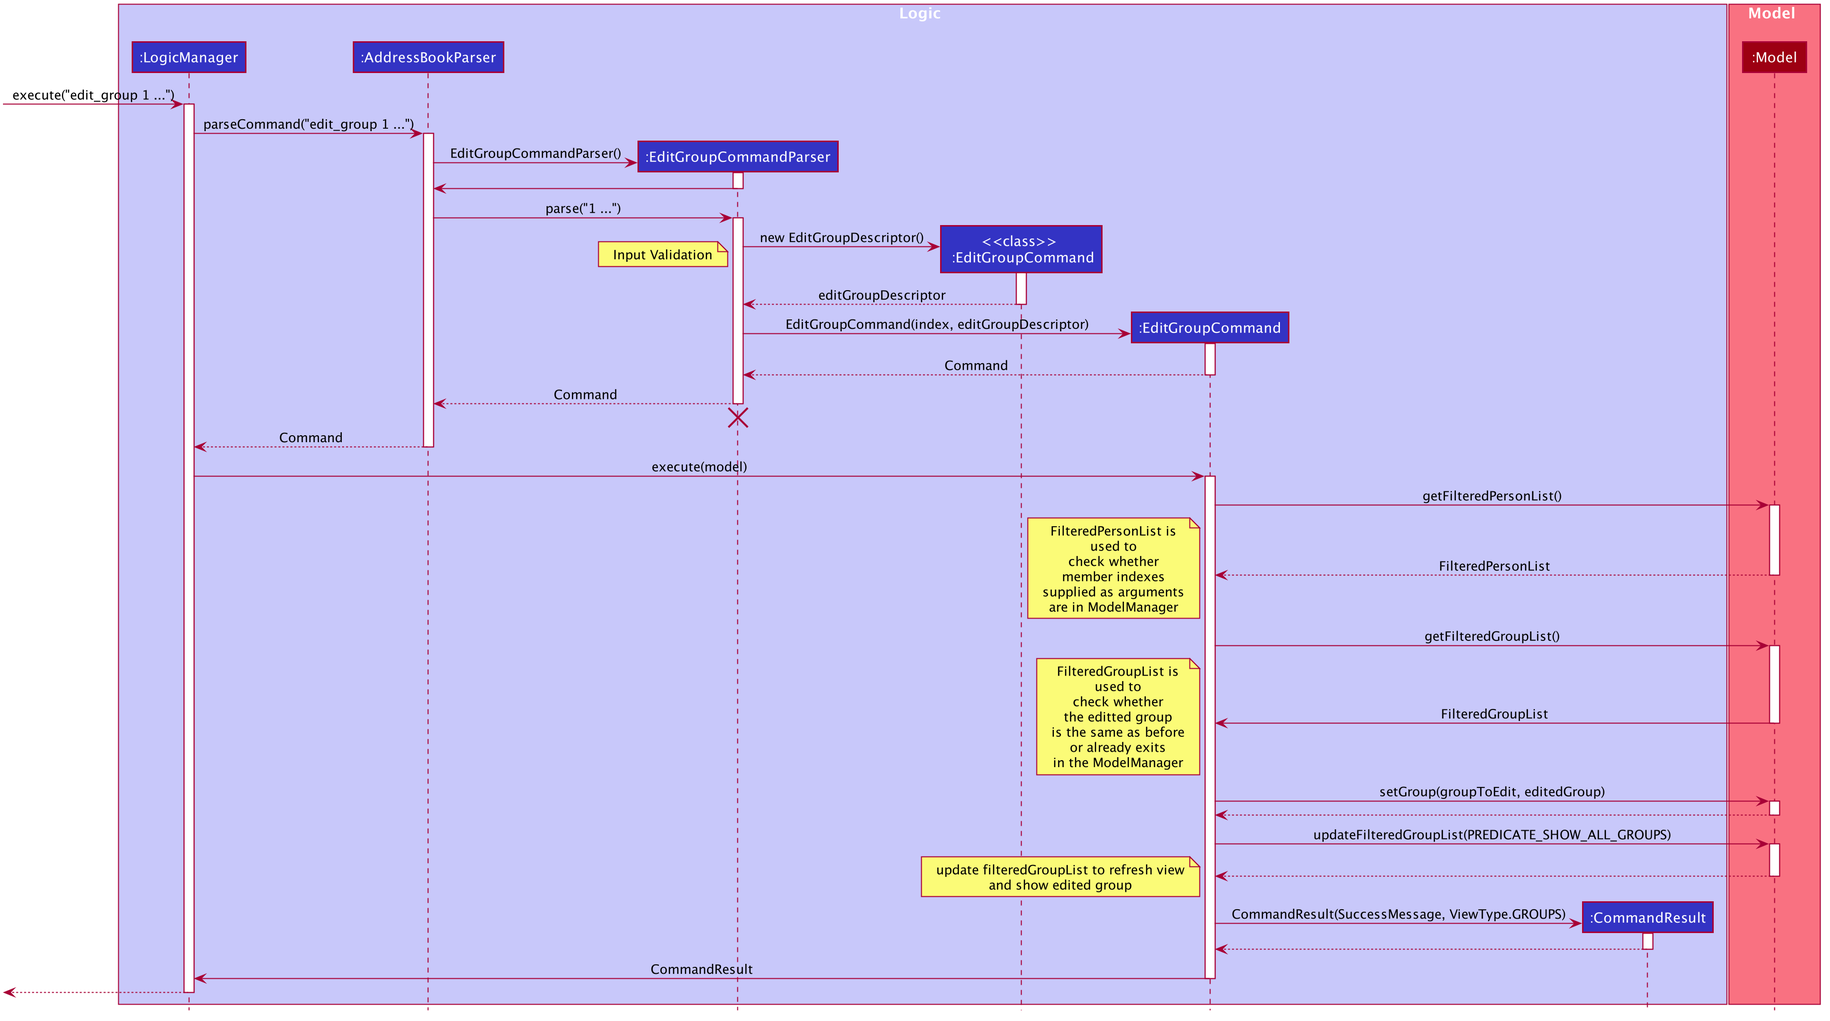
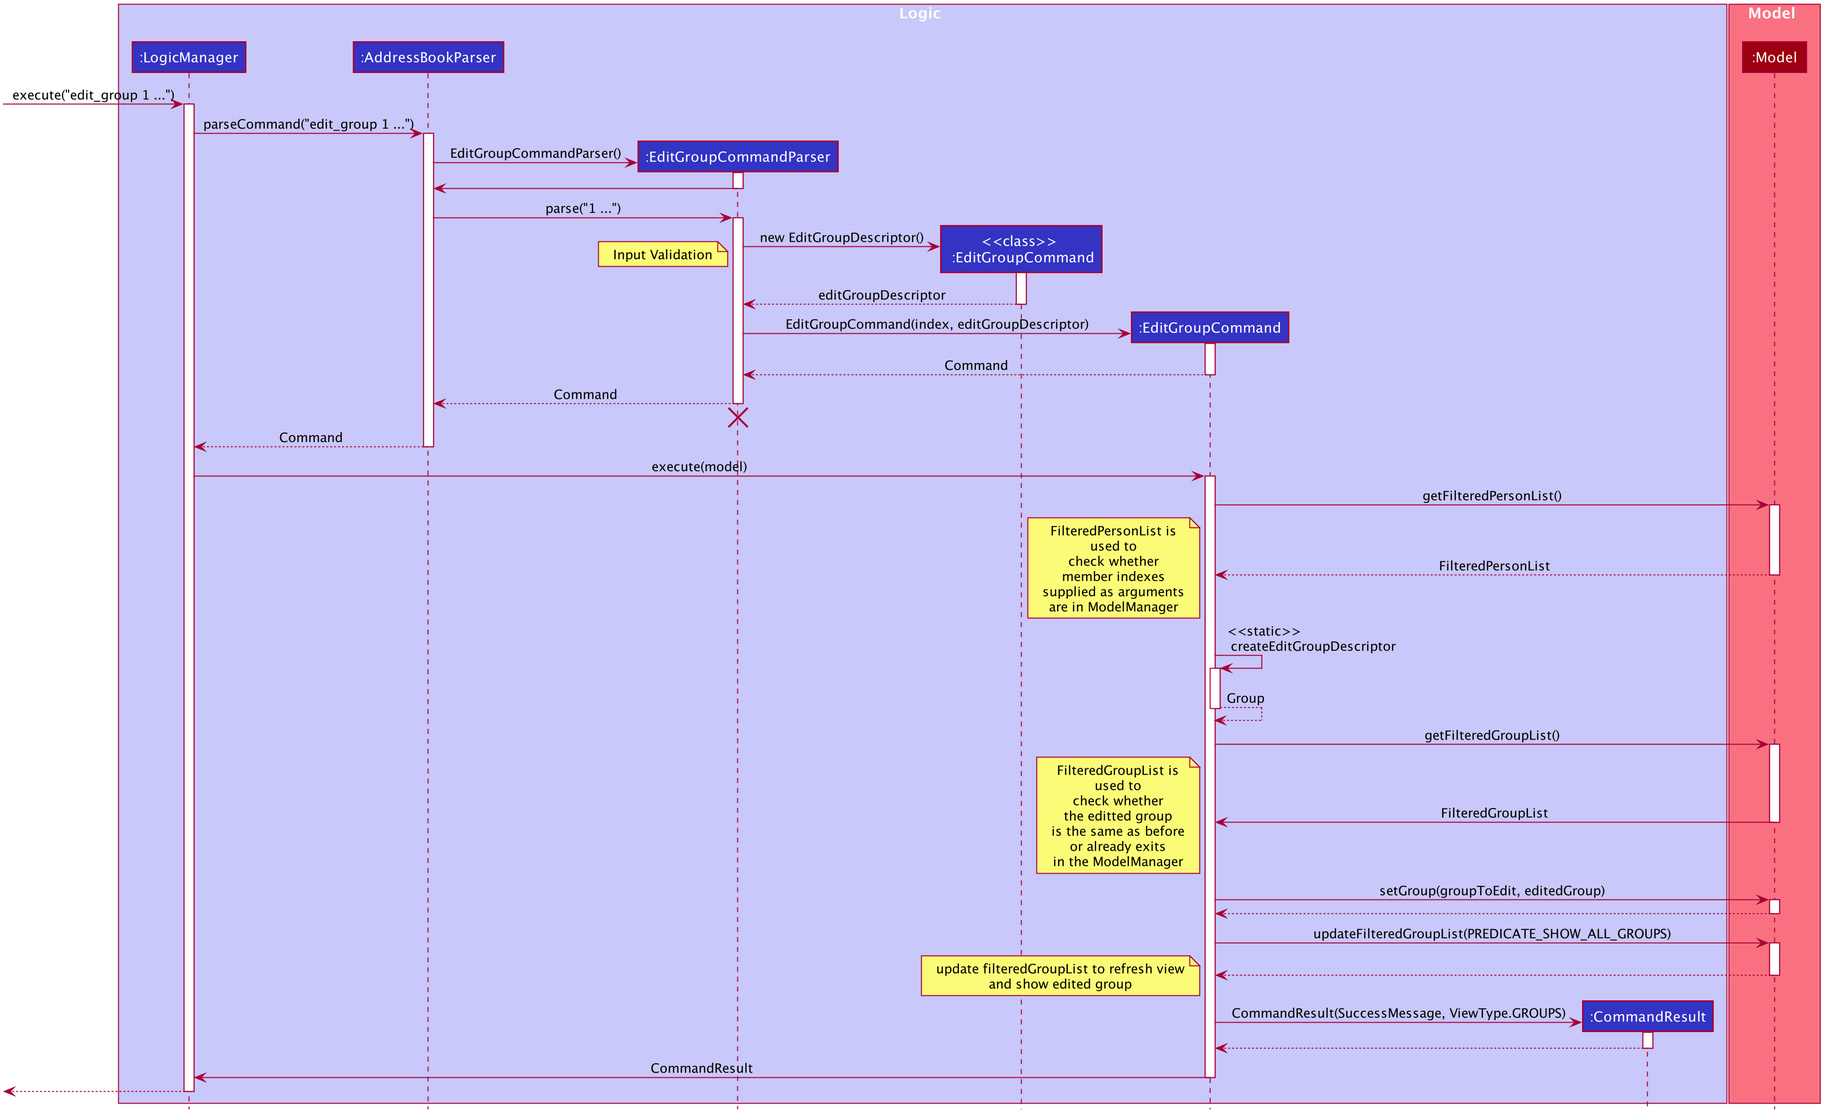
Rebuild pages at 583d0dda7e2013efb6cb3e8d5bdd41a7f2e36292

diff --git a/DeveloperGuide.html b/DeveloperGuide.html
@@ -59,10 +59,11 @@
 <ul class="sectlevel2">
 <li><a href="#build-automation">7.1. Build Automation</a></li>
 <li><a href="#continuous-integration">7.2. Continuous Integration</a></li>
-<li><a href="#coverage-reporting">7.3. Coverage Reporting</a></li>
-<li><a href="#documentation-previews">7.4. Documentation Previews</a></li>
-<li><a href="#making-a-release">7.5. Making a Release</a></li>
-<li><a href="#managing-dependencies">7.6. Managing Dependencies</a></li>
+<li><a href="#continuous-deployment">7.3. Continuous Deployment</a></li>
+<li><a href="#coverage-reporting">7.4. Coverage Reporting</a></li>
+<li><a href="#documentation-previews">7.5. Documentation Previews</a></li>
+<li><a href="#making-a-release">7.6. Making a Release</a></li>
+<li><a href="#managing-dependencies">7.7. Managing Dependencies</a></li>
 </ul>
 </li>
 <li><a href="#product-scope">Appendix A: Product Scope</a></li>
@@ -875,7 +876,7 @@ feature is shown using the following Sequence Diagram.</p>
 <div class="ulist">
 <ul>
 <li>
-<p>Alternative 1: Separate <code>DeleteGroupCommand</code> and <code>DeleteGroup</code> classes to support the feature.<br>
+<p>Alternative 1 (current choice) : Separate <code>DeleteGroupCommand</code> and <code>DeleteGroup</code> classes to support the feature.<br>
 Pros: clear class responsibility, easier to trace bugs. Since this follows the design of most other commands,
 intuitive to understand for new developers<br>
 Cons: increases the amount of code, which might introduce more errors.</p>
@@ -891,10 +892,13 @@ Cons: Can cause confusion among developers regarding the class responsibility.</
 </div>
 <div class="sect2">
 <h3 id="list-group-feature"><a class="link" href="#list-group-feature">4.6. List Group Feature</a></h3>
+<div class="paragraph">
+<p>The list group feature allows users to view all the <code>Group</code> instances currently stored in CoderLifeInsights.</p>
+</div>
 <div class="sect3">
 <h4 id="implementation-7"><a class="link" href="#implementation-7">4.6.1. Implementation</a></h4>
 <div class="paragraph">
-<p>The list feature allows users to view all the social <code>Group</code> instances currently stored in CoderLifeInsights.</p>
+<p>This feature is mainly supported by the <code>ListGroupCommand</code>, which extends the abstract class <code>Command</code>.</p>
 </div>
 <div class="paragraph">
 <p>Here below is a sequence diagram showcasing how the command works.</p>
@@ -905,7 +909,7 @@ Cons: Can cause confusion among developers regarding the class responsibility.</
 </div>
 </div>
 <div class="paragraph">
-<p>The following activity diagram depicts the step-by-step scenario when a user executes the <code>list_groups</code> command:</p>
+<p>The following is an example usage scenario and how the list group mechanism behaves at each step.</p>
 </div>
 <div class="olist arabic">
 <ol class="arabic">
@@ -913,10 +917,10 @@ Cons: Can cause confusion among developers regarding the class responsibility.</
 <p>User enters <code>list_groups</code> into the command prompt</p>
 </li>
 <li>
-<p>The <code>LogicManager</code> calls <code>AddressBookParser#parseCommand()</code></p>
+<p>The <code>LogicManager</code> calls <code>AddressBookParser#parseCommand()</code> with the arguments supplied by the user</p>
 </li>
 <li>
-<p>The method <code>AddressBookParser#parseCommand()</code> creates a <code>ListGroupCommand</code> and checks if the input is valid.</p>
+<p>The method <code>AddressBookParser#parseCommand()</code> checks if the input is valid and if yes, creates a <code>ListGroupCommand</code>.</p>
 </li>
 <li>
 <p>The <code>ListGroupCommand</code> calls the <code>updateFilteredGroupList</code> method of <code>Model</code> to update the GUI.</p>
@@ -929,6 +933,9 @@ Cons: Can cause confusion among developers regarding the class responsibility.</
 </li>
 </ol>
 </div>
+<div class="paragraph">
+<p>The following activity diagram summarises the workflow for the list group feature.</p>
+</div>
 <div id="ListGroupCommandActivity" class="imageblock" style="text-align: center">
 <div class="content">
 <img src="images/ListGroupCommandActivity.png" alt="ListGroupCommandActivity" width="50%">
@@ -938,12 +945,155 @@ Cons: Can cause confusion among developers regarding the class responsibility.</
 </div>
 <div class="sect2">
 <h3 id="edit-group-feature"><a class="link" href="#edit-group-feature">4.7. Edit Group Feature</a></h3>
+<div class="paragraph">
+<p>The Edit Group Feature allows the user to edit an existing <code>Group</code> in the app.</p>
+</div>
 <div class="sect3">
 <h4 id="implementation-8"><a class="link" href="#implementation-8">4.7.1. Implementation</a></h4>
+<div class="paragraph">
+<p>The Edit Group Feature is facilitated by the <code>EditGroupCommand</code>, which extends the abstract class <code>Command</code>, and
+the <code>EditGroupCommandParser</code>, which implements the <code>Parser</code> interface. Both of these classes are part of the <code>Logic</code>
+package. Additionally, a private and static <code>EditGroupDescriptor</code> class is present in <code>EditGroupCommand</code> as a container
+class to encapsulate attributes to be edited for a <code>Group</code>.</p>
+</div>
+<div class="paragraph">
+<p>he following operations are implemented and used for accomplishing this feature:</p>
+</div>
+<div class="ulist">
+<ul>
+<li>
+<p><code>EditGroupCommandParser#parser(String args)</code> - Parses the input to obtain the arguments and returns an
+<code>EditGroupCommand</code> instance with the arguments.</p>
+</li>
+<li>
+<p><code>EditGroupCommandParser#arePrefixesPresent(ArgumentMultimap argumentMultiMap, Prefix&#8230;&#8203; prefixes)</code> - checks if the
+member indexes are supplied by the user.</p>
+</li>
+<li>
+<p><code>EditGroupCommand#EditGroupCommand(Index index, EditGroupDescriptor editGroupDescriptor)</code> - Creates a new
+<code>EditGroupCommand</code> instance with the supplied index and editGroupDescriptor.</p>
+</li>
+<li>
+<p><code>EditGroupCommand#createEditedGroup(Group groupToEdit, EditGroupDescriptor editGroupDescriptor)</code> - Modifies the given
+<code>groupToEdit</code> with the details given in <code>editGroupDescriptor</code>.</p>
+</li>
+</ul>
+</div>
+<div class="paragraph">
+<p>The following is an example usage scenario and how the edit group mechanism behaves at each step:</p>
+</div>
+<div class="olist arabic">
+<ol class="arabic">
+<li>
+<p>User types <code>edit_group index n/new_name</code> or <code>edit_group index m/index &#8230;&#8203;</code> into the app.</p>
+</li>
+<li>
+<p>The request is handled by <code>LogicManager#execute(String)</code>, which then calls and passes the input to
+the <code>AddressBookParser#parseCommand(String)</code> method.</p>
+</li>
+<li>
+<p><code>AddressBookParser</code> detects the command word <code>edit_group</code> in the input string and creates a new
+<code>EditGroupCommandParser</code> to parse inputs according to the format specified for <code>EditGroupCommand</code>.</p>
+</li>
+<li>
+<p>Input is parsed using the <code>EditGroupCommandParser#parse(String)</code> method, which also performs input validation. The
+method creates a <code>EditGroupDescriptor</code> using the parsed inputs by calling the static constructor inside <code>EditGroupCommand</code>.</p>
+</li>
+<li>
+<p>The <code>EditGroupCommandParser</code> creates a new <code>EditGroupCommand</code> instance with the given <code>index</code> and newly created
+<code>EditGroupDescriptor</code> object and returns it to <code>AddressBookParser</code>, which in turn returns it to <code>LogicManager</code>.</p>
+</li>
+<li>
+<p><code>LogicManager</code> calls the <code>EditGroupCommand#execute(model)</code> method.</p>
+</li>
+<li>
+<p><code>EditGroupCommand</code> obtains a copy of the <code>FilteredPersonList</code> by calling the <code>Model#getFilteredPersonList()</code> method.
+This is used to check if the member indexes supplied by the user exist in the app and that there are no duplicate person
+indexes in the command.</p>
+</li>
+<li>
+<p><code>EditGroupCommand</code> edits the group at given index by calling its own private static method
+<code>EditGroupCommand#createEditGroup(Group, EditGroupDescriptor)</code>.</p>
+</li>
+<li>
+<p><code>EditGroupCommand</code> obtains a copy of the <code>FilteredGroupList</code> by calling the <code>Model#getFilteredGroupList()</code> method.
+This is used to check if the edited group already exits in the app.</p>
+</li>
+<li>
+<p>As a last step, <code>EditGroupCommand</code> creates a <code>CommandResult</code> with <code>SuccessMessage</code> and <code>ViewType</code> and returns it to
+<code>LogicManager</code>.</p>
+</li>
+</ol>
+</div>
+<div class="paragraph">
+<p>The above process is shown in the following sequence diagram:</p>
+</div>
 <div id="EditGroupSequenceDiagram" class="imageblock" style="text-align: center">
 <div class="content">
 <img src="images/EditGroupSequenceDiagram.png" alt="EditGroupSequenceDiagram">
 </div>
+</div>
+<div class="paragraph">
+<p>The following activity diagram summarises the general workflow for the Edit Group Feature</p>
+</div>
+<div id="EditGroupActivityDiagram" class="imageblock" style="text-align: center">
+<div class="content">
+<img src="images/EditGroupActivityDiagram.png" alt="EditGroupActivityDiagram">
+</div>
+</div>
+</div>
+<div class="sect3">
+<h4 id="design-considerations-4"><a class="link" href="#design-considerations-4">4.7.2. Design Considerations</a></h4>
+<div class="paragraph">
+<p>Aspect: What and how to edit</p>
+</div>
+<div class="ulist">
+<ul>
+<li>
+<p>Alternative 1 (current choice): Only edit parameters that are supplied. For the parameters that are supplied,
+overwrite the existing entry.</p>
+<div class="ulist">
+<ul>
+<li>
+<p>Pros: The single edit group feature can achieve both addition and deletion of members
+as well as renaming of the group. Better maintainability of code.</p>
+</li>
+<li>
+<p>Cons: Overwriting all existing entries might affect usability as the user will have to re-enter the current member
+indexes if they want to add to member indexes rather than delete.</p>
+</li>
+</ul>
+</div>
+</li>
+<li>
+<p>Alternative 2: Only edit parameters that are supplied. For the parameters that are supplied, add to the existing
+entries instead of overwriting.</p>
+<div class="ulist">
+<ul>
+<li>
+<p>Pros: The user will not have to re-enter member indexes if they choose to retain members inside a group.</p>
+</li>
+<li>
+<p>Cons: Will require implementing a separate command to then delete member indexes from a group. This can also confuse
+the user if there are too many commands.</p>
+</li>
+</ul>
+</div>
+</li>
+<li>
+<p>Alternative 3: Edit all parameters. Overwrite all existing entries.</p>
+<div class="ulist">
+<ul>
+<li>
+<p>Pros: Simplest to implement in terms of code. Will require less code than alternative 1 and 2.</p>
+</li>
+<li>
+<p>Cons: Cumbersome for the user as they have to enter an attribute value even if they don&#8217;t want to change it.</p>
+</li>
+</ul>
+</div>
+</li>
+</ul>
 </div>
 </div>
 </div>
@@ -1269,7 +1419,7 @@ This is the behavior that most modern desktop applications follow.</p>
 </div>
 </div>
 <div class="sect3">
-<h4 id="design-considerations-4"><a class="link" href="#design-considerations-4">4.10.2. Design Considerations</a></h4>
+<h4 id="design-considerations-5"><a class="link" href="#design-considerations-5">4.10.2. Design Considerations</a></h4>
 <div class="sect4">
 <h5 id="aspect-how-undo-redo-executes"><a class="link" href="#aspect-how-undo-redo-executes">Aspect: How undo &amp; redo executes</a></h5>
 <div class="ulist">
@@ -1719,21 +1869,29 @@ for more details.</p>
 </div>
 </div>
 <div class="sect2">
-<h3 id="coverage-reporting"><a class="link" href="#coverage-reporting">7.3. Coverage Reporting</a></h3>
+<h3 id="continuous-deployment"><a class="link" href="#continuous-deployment">7.3. Continuous Deployment</a></h3>
+<div class="paragraph">
+<p>We maintain a site for this project <a href="https://ay1920s2-cs2103-w14-4.github.io/main/">here</a>. To ensure that each PR complies
+with our site requirements for auto-deploy, we use Netlify for Continuous Deployment. Read
+<a href="https://docs.netlify.com/configure-builds/get-started/#basic-build-settings">this guide</a> to get upto speed with Netlify CD.</p>
+</div>
+</div>
+<div class="sect2">
+<h3 id="coverage-reporting"><a class="link" href="#coverage-reporting">7.4. Coverage Reporting</a></h3>
 <div class="paragraph">
 <p>We use <a href="https://coveralls.io/">Coveralls</a> to track the code coverage of our projects.
 See <a href="UsingCoveralls.html">UsingCoveralls.adoc</a> for more details.</p>
 </div>
 </div>
 <div class="sect2">
-<h3 id="documentation-previews"><a class="link" href="#documentation-previews">7.4. Documentation Previews</a></h3>
+<h3 id="documentation-previews"><a class="link" href="#documentation-previews">7.5. Documentation Previews</a></h3>
 <div class="paragraph">
 <p>When a pull request has changes to asciidoc files, you can use <a href="https://www.netlify.com/">Netlify</a> to see a preview of how the HTML version of those asciidoc files will look like when the pull request is merged.
 See <a href="UsingNetlify.html">UsingNetlify.adoc</a> for more details.</p>
 </div>
 </div>
 <div class="sect2">
-<h3 id="making-a-release"><a class="link" href="#making-a-release">7.5. Making a Release</a></h3>
+<h3 id="making-a-release"><a class="link" href="#making-a-release">7.6. Making a Release</a></h3>
 <div class="paragraph">
 <p>Here are the steps to create a new release.</p>
 </div>
@@ -1755,7 +1913,7 @@ See <a href="UsingNetlify.html">UsingNetlify.adoc</a> for more details.</p>
 </div>
 </div>
 <div class="sect2">
-<h3 id="managing-dependencies"><a class="link" href="#managing-dependencies">7.6. Managing Dependencies</a></h3>
+<h3 id="managing-dependencies"><a class="link" href="#managing-dependencies">7.7. Managing Dependencies</a></h3>
 <div class="paragraph">
 <p>A project often depends on third-party libraries.
 For example, Address Book depends on the <a href="https://github.com/FasterXML/jackson">Jackson library</a> for JSON parsing.
@@ -3087,4 +3245,4 @@ A success message will be shown to the user.</p>
 </div>
 </div>
 </div>
-</div></div><div id="footer"><div class="container"><div id="footer-text">Last updated 2020-04-13 01:04:00 UTC</div></div></div></body></html>
+</div></div><div id="footer"><div class="container"><div id="footer-text">Last updated 2020-04-13 02:54:10 UTC</div></div></div></body></html>

diff --git a/team/raivatshah.html b/team/raivatshah.html
@@ -480,10 +480,13 @@ Format: <code>view [INDEX] INSIGHT_PARAMETER</code></p>
 </table>
 <div class="sect2">
 <h3 id="list-group-feature"><a class="link" href="#list-group-feature">List Group Feature</a></h3>
+<div class="paragraph">
+<p>The list group feature allows users to view all the <code>Group</code> instances currently stored in CoderLifeInsights.</p>
+</div>
 <div class="sect3">
 <h4 id="implementation"><a class="link" href="#implementation">Implementation</a></h4>
 <div class="paragraph">
-<p>The list feature allows users to view all the social <code>Group</code> instances currently stored in CoderLifeInsights.</p>
+<p>This feature is mainly supported by the <code>ListGroupCommand</code>, which extends the abstract class <code>Command</code>.</p>
 </div>
 <div class="paragraph">
 <p>Here below is a sequence diagram showcasing how the command works.</p>
@@ -494,7 +497,7 @@ Format: <code>view [INDEX] INSIGHT_PARAMETER</code></p>
 </div>
 </div>
 <div class="paragraph">
-<p>The following activity diagram depicts the step-by-step scenario when a user executes the <code>list_groups</code> command:</p>
+<p>The following is an example usage scenario and how the list group mechanism behaves at each step.</p>
 </div>
 <div class="olist arabic">
 <ol class="arabic">
@@ -502,10 +505,10 @@ Format: <code>view [INDEX] INSIGHT_PARAMETER</code></p>
 <p>User enters <code>list_groups</code> into the command prompt</p>
 </li>
 <li>
-<p>The <code>LogicManager</code> calls <code>AddressBookParser#parseCommand()</code></p>
+<p>The <code>LogicManager</code> calls <code>AddressBookParser#parseCommand()</code> with the arguments supplied by the user</p>
 </li>
 <li>
-<p>The method <code>AddressBookParser#parseCommand()</code> creates a <code>ListGroupCommand</code> and checks if the input is valid.</p>
+<p>The method <code>AddressBookParser#parseCommand()</code> checks if the input is valid and if yes, creates a <code>ListGroupCommand</code>.</p>
 </li>
 <li>
 <p>The <code>ListGroupCommand</code> calls the <code>updateFilteredGroupList</code> method of <code>Model</code> to update the GUI.</p>
@@ -518,6 +521,9 @@ Format: <code>view [INDEX] INSIGHT_PARAMETER</code></p>
 </li>
 </ol>
 </div>
+<div class="paragraph">
+<p>The following activity diagram summarises the workflow for the list group feature.</p>
+</div>
 <div id="ListGroupCommandActivity" class="imageblock" style="text-align: center">
 <div class="content">
 <img src="../images/ListGroupCommandActivity.png" alt="ListGroupCommandActivity" width="50%">
@@ -526,4 +532,4 @@ Format: <code>view [INDEX] INSIGHT_PARAMETER</code></p>
 </div>
 </div>
 </div>
-</div></div><div id="footer"><div class="container"><div id="footer-text">Last updated 2020-04-13 01:04:00 UTC</div></div></div></body></html>
+</div></div><div id="footer"><div class="container"><div id="footer-text">Last updated 2020-04-13 02:54:10 UTC</div></div></div></body></html>

diff --git a/tutorials/RemovingFields.html b/tutorials/RemovingFields.html
@@ -175,4 +175,4 @@ While keeping the <code>address</code> field in the json files does not cause th
 <p>You can go through each individual <code>json</code> file and manually remove the <code>address</code> field.</p>
 </div>
 </div>
-</div></div><div id="footer"><div class="container"><div id="footer-text">Last updated 2020-04-13 01:04:00 UTC</div></div></div></body></html>
+</div></div><div id="footer"><div class="container"><div id="footer-text">Last updated 2020-04-13 02:54:10 UTC</div></div></div></body></html>

diff --git a/Testing.html b/Testing.html
@@ -90,4 +90,4 @@ e.g. <code>seedu.address.logic.LogicManagerTest</code></p>
 <div class="title">Figure 1. <code>Accessibility</code> permission is granted to <code>IntelliJ IDEA</code></div>
 </div>
 </div>
-</div></div><div id="footer"><div class="container"><div id="footer-text">Last updated 2020-04-13 01:04:00 UTC</div></div></div></body></html>
+</div></div><div id="footer"><div class="container"><div id="footer-text">Last updated 2020-04-13 02:54:10 UTC</div></div></div></body></html>

diff --git a/tutorials/AddRemark.html b/tutorials/AddRemark.html
@@ -616,4 +616,4 @@ In this case, <code>CommandTestUtil#assertCommandSuccess</code> is the best fit 
 <p>This concludes the tutorial for adding a new <code>Command</code> to AddressBook.</p>
 </div>
 </div>
-</div></div><div id="footer"><div class="container"><div id="footer-text">Last updated 2020-04-13 01:04:00 UTC</div></div></div></body></html>
+</div></div><div id="footer"><div class="container"><div id="footer-text">Last updated 2020-04-13 02:54:10 UTC</div></div></div></body></html>

diff --git a/team/johndoe.html b/team/johndoe.html
@@ -465,4 +465,4 @@ Violates Single Responsibility Principle and Separation of Concerns as <code>His
 <p><em>{Optionally, you may include other projects in your portfolio.}</em></p>
 </div>
 </div>
-</div></div><div id="footer"><div class="container"><div id="footer-text">Last updated 2020-04-13 01:04:00 UTC</div></div></div></body></html>
+</div></div><div id="footer"><div class="container"><div id="footer-text">Last updated 2020-04-13 02:54:10 UTC</div></div></div></body></html>

diff --git a/index.html b/index.html
@@ -80,4 +80,4 @@ Looking for insights in your social life as a programmer?Look no further!</p>
 <div class="sectionbody">
 
 </div>
-</div></div><div id="footer"><div class="container"><div id="footer-text">Last updated 2020-04-13 01:04:00 UTC</div></div></div></body></html>
+</div></div><div id="footer"><div class="container"><div id="footer-text">Last updated 2020-04-13 02:54:10 UTC</div></div></div></body></html>

diff --git a/LearningOutcomes.html b/LearningOutcomes.html
@@ -474,4 +474,4 @@ of storages, but different number of storages (e.g. save to both a text file and
 </div>
 </div>
 </div>
-</div></div><div id="footer"><div class="container"><div id="footer-text">Last updated 2020-04-13 01:04:00 UTC</div></div></div></body></html>
+</div></div><div id="footer"><div class="container"><div id="footer-text">Last updated 2020-04-13 02:54:10 UTC</div></div></div></body></html>

diff --git a/SettingUp.html b/SettingUp.html
@@ -180,4 +180,4 @@ Having both Travis and AppVeyor ensures your App works on both Unix-based platfo
 </div>
 </div>
 </div>
-</div></div><div id="footer"><div class="container"><div id="footer-text">Last updated 2020-04-13 01:04:00 UTC</div></div></div></body></html>
+</div></div><div id="footer"><div class="container"><div id="footer-text">Last updated 2020-04-13 02:54:10 UTC</div></div></div></body></html>

diff --git a/team/harrychengly.html b/team/harrychengly.html
@@ -953,4 +953,4 @@ suggested place or activity based on the least frequency of the place visited or
 </div>
 </div>
 </div>
-</div></div><div id="footer"><div class="container"><div id="footer-text">Last updated 2020-04-13 01:04:00 UTC</div></div></div></body></html>
+</div></div><div id="footer"><div class="container"><div id="footer-text">Last updated 2020-04-13 02:54:10 UTC</div></div></div></body></html>

diff --git a/UsingCoveralls.html b/UsingCoveralls.html
@@ -111,4 +111,4 @@ If you have not set up Travis CI, see <a href="UsingTravis.html">UsingTravis.ado
 </ol>
 </div>
 </div>
-</div></div><div id="footer"><div class="container"><div id="footer-text">Last updated 2020-04-13 01:04:00 UTC</div></div></div></body></html>
+</div></div><div id="footer"><div class="container"><div id="footer-text">Last updated 2020-04-13 02:54:10 UTC</div></div></div></body></html>

diff --git a/UsingGradle.html b/UsingGradle.html
@@ -228,4 +228,4 @@ See <code>build.gradle</code> &#8594; <code>allprojects</code> &#8594; <code>dep
 </ul>
 </div>
 </div>
-</div></div><div id="footer"><div class="container"><div id="footer-text">Last updated 2020-04-13 01:04:00 UTC</div></div></div></body></html>
+</div></div><div id="footer"><div class="container"><div id="footer-text">Last updated 2020-04-13 02:54:10 UTC</div></div></div></body></html>
